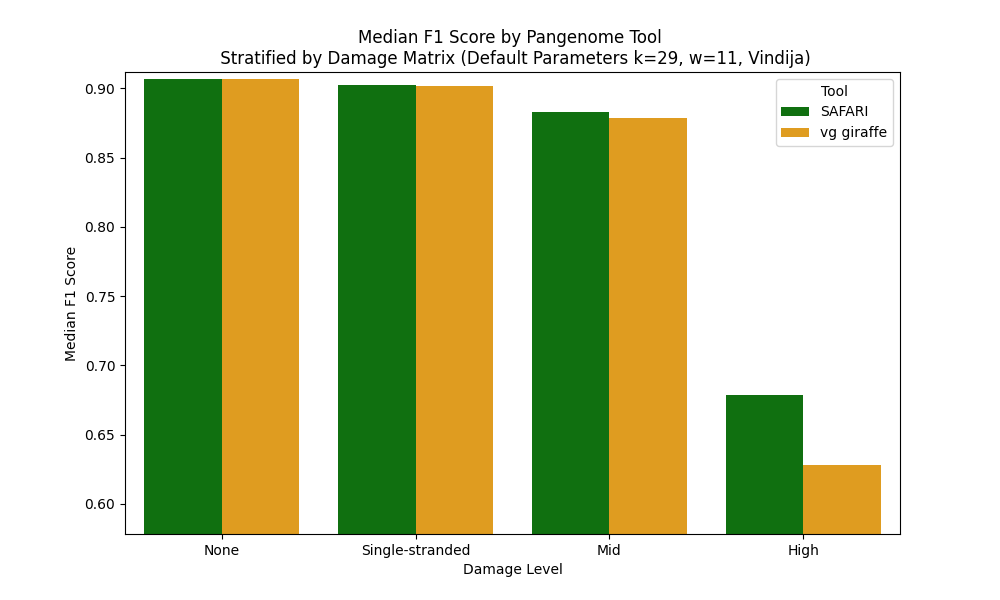
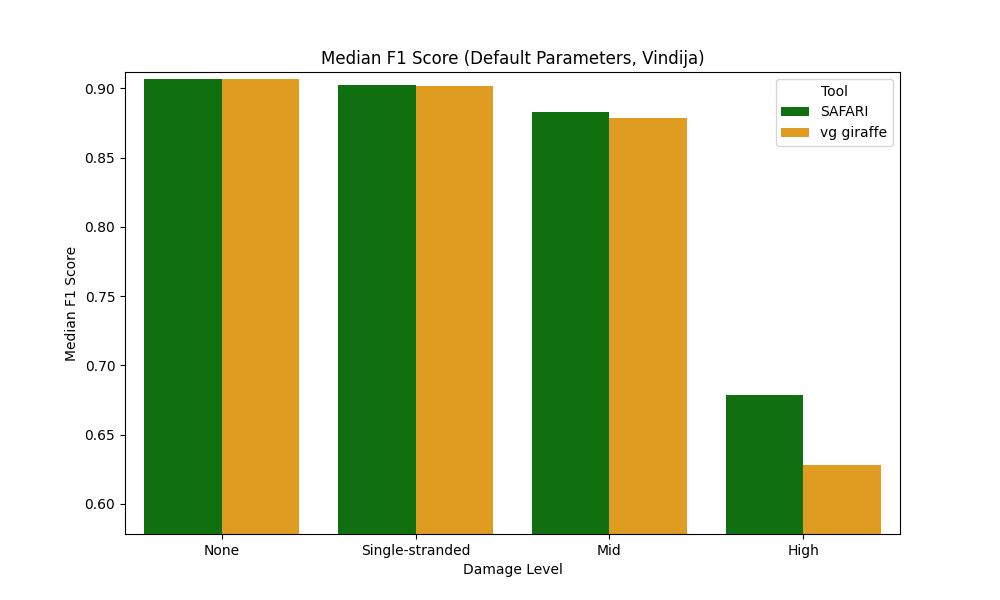
Update

Changed region(s): [[0.217, 0.03, 0.806, 0.12]]

diff --git a/linear_experiment/human_mito/stat_results/table.py b/linear_experiment/human_mito/stat_results/table.py
@@ -11,7 +11,7 @@ def analyze_and_save(input_file_path, output_file_path):
     # Filter for SAFARI and vg giraffe tools
     filtered_data = data[data['tool'].isin(['SAFARI', 'vg giraffe'])]
 
-    # Extend the aggregation to sum up unmapped counts and calculate total for mito
+    # Ensure aggregation includes the median for mito_total_sum for each (k, w) pair
     agg_operations = {
         'bacteria_mapped': 'median',
         'bacteria_unmapped': 'sum',
@@ -21,16 +21,14 @@ def analyze_and_save(input_file_path, output_file_path):
         'mito_incorrect': 'sum',
         'mito_unmapped': 'sum',
         'mito_mapped': 'sum',
-        'mito_total_sum': 'median'  # Aggregating the newly added total mito count
+        'mito_total_sum': 'median'  # This already ensures the median for each (k, w) pair
     }
     grouped = filtered_data.groupby(['k', 'w', 'tool']).agg(agg_operations).reset_index()
 
     # Calculate total counts
     grouped['bacteria_total'] = grouped['bacteria_mapped'] + grouped['bacteria_unmapped']
     grouped['numt_total'] = grouped['numt_mapped'] + grouped['numt_unmapped']
-    grouped['mito_total'] = grouped['mito_correct'] + grouped['mito_mapped']
-
-    # Update to use the median of mito_total_sum for the "out of" part in mito results
+    # Update mito_total to use mito_total_sum directly as it is the median value we need
     grouped['mito_total'] = grouped['mito_total_sum']
 
     # Pivot the table for side by side comparison, including total counts
@@ -39,10 +37,10 @@ def analyze_and_save(input_file_path, output_file_path):
                                               'numt_mapped', 'numt_total', 
                                               'mito_correct', 'mito_total']).reset_index()
 
-    # Convert numeric columns that should be integers back to integers and prepare for "out of" formatting
-    for col in ['bacteria_mapped', 'bacteria_total', 'numt_mapped', 'numt_total', 'mito_correct', 'mito_total']:
-        for tool in ['SAFARI', 'vg giraffe']:
-            pivot_table[(col, tool)] = pivot_table[(col, tool)].fillna(0).astype(int)
+    # Ensure all numeric columns are integers
+    for col in pivot_table.columns:
+        if col[0] in ['bacteria_mapped', 'bacteria_total', 'numt_mapped', 'numt_total', 'mito_correct', 'mito_total']:
+            pivot_table[col] = pivot_table[col].fillna(0).astype(int)
 
     # Format the columns to "mapped/total" or "correct/total"
     for metric in ['bacteria_mapped', 'numt_mapped', 'mito_correct']:
@@ -59,8 +57,10 @@ def analyze_and_save(input_file_path, output_file_path):
     ]
     pivot_table = pivot_table.reindex(columns=pd.MultiIndex.from_tuples(columns_order))
 
-    # Convert to LaTeX with custom formatting
-    latex_table = pivot_table.to_latex(index=False)
+    # Convert to LaTeX with custom formatting to ensure no .0 for integers
+    latex_table = pivot_table.to_latex(index=False, formatters={
+        col: lambda x: x.split('.')[0] if '.' in x else x for col in pivot_table.columns
+    })
 
     # Save the LaTeX table to file
     with open(output_file_path, 'w') as f:

diff --git a/linear_experiment/human_mito/stat_results/plot_F1_default_pangenome.py b/linear_experiment/human_mito/stat_results/plot_F1_default_pangenome.py
@@ -36,7 +36,7 @@ def main():
     # Create the barplot
     plt.figure(figsize=(10, 6))
     sns.barplot(data=median_f1_scores, x='damage_level', y='f1', hue='tool', palette=corrected_palette)
-    plt.title('Median F1 Score by Pangenome Tool \n Stratified by Damage Matrix (Default Parameters k=29, w=11, ' + sys.argv[3] + ")")
+    plt.title('Median F1 Score (Default Parameters, ' + sys.argv[3] + ")")
     plt.xlabel('Damage Level')
     plt.ylabel('Median F1 Score')
     plt.legend(title='Tool')
